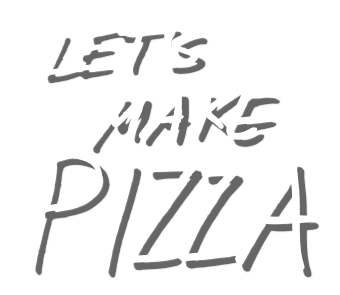
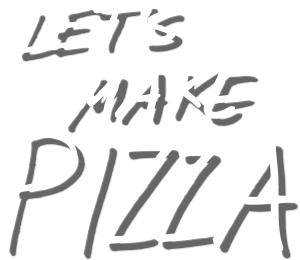
set pizza ui header size

Changed region(s): [[0.03, 0.0308, 1.0, 1.0], [0.51, 0.6769, 0.54, 0.7385], [0.54, 0.6462, 0.57, 0.6769]]

diff --git a/core/src/nz/co/canadia/poorpeoplepizzaparty/utils/Constants.java b/core/src/nz/co/canadia/poorpeoplepizzaparty/utils/Constants.java
@@ -37,15 +37,22 @@ public class Constants {
         BARBECUE
     }
 
+    // everything is blocked out in terms of this unit
     public static final int UNIT = 20;
 
+    // UI font size is 32px
     public static final float UI_FONT_RATIO = 32f / GAME_HEIGHT;
     public static final float UI_SHADOW_X = 2f/ GAME_HEIGHT;
     public static final float UI_SHADOW_Y = 2f/ GAME_HEIGHT;
     public static final Color UI_SHADOW_COLOR =
             new Color(0, 0, 0, 0.6f);
 
+    // UI button icons are 50px
     public static final float UI_ICON_RATIO = 50f / GAME_HEIGHT;
+
+    // Pizza UI header height is 300x260 px
+    public static final float UI_HEADER_WIDTH_RATIO = 300f / GAME_WIDTH;
+    public static final float UI_HEADER_HEIGHT_RATIO = 260f / GAME_HEIGHT;
 
     // Pizza base x, y
     public static final int BASE_X = UNIT;

diff --git a/core/src/nz/co/canadia/poorpeoplepizzaparty/ui/PizzaUi.java b/core/src/nz/co/canadia/poorpeoplepizzaparty/ui/PizzaUi.java
@@ -189,7 +189,8 @@ public class PizzaUi extends Table {
                 .pad(UiSize.getPadding(screenHeight));
         super.add(headerImage)
                 .space(UiSize.getPadding(screenHeight))
-                .prefSize(UiSize.getButtonWidthFull(screenWidth, screenHeight))
+                .prefSize(UiSize.getImageWidth(screenWidth),
+                        UiSize.getImageHeight(screenHeight))
                 .colspan(2).center();
         super.row();
         super.add(toppingSelectButton).space(UiSize.getPadding(screenHeight))

diff --git a/core/src/nz/co/canadia/poorpeoplepizzaparty/utils/UiSize.java b/core/src/nz/co/canadia/poorpeoplepizzaparty/utils/UiSize.java
@@ -36,4 +36,12 @@ public class UiSize {
     public static int getButtonHeight(int screenHeight) {
         return getPadding(screenHeight) * 4;
     }
+
+    public static float getImageHeight(int screenHeight) {
+        return Constants.UI_HEADER_HEIGHT_RATIO * screenHeight;
+    }
+
+    public static float getImageWidth(int screenWidth) {
+        return Constants.UI_HEADER_WIDTH_RATIO * screenWidth;
+    }
 }

diff --git a/core/src/nz/co/canadia/poorpeoplepizzaparty/utils/Assets.java b/core/src/nz/co/canadia/poorpeoplepizzaparty/utils/Assets.java
@@ -10,8 +10,7 @@ public class Assets extends AssetManager {
     private final TextureLoader.TextureParameter param;
     
     public Assets() {
-        param =
-                new TextureLoader.TextureParameter();
+        param = new TextureLoader.TextureParameter();
         param.minFilter = Texture.TextureFilter.Linear;
         param.magFilter = Texture.TextureFilter.Linear;
     }

diff --git a/todo.md b/todo.md
@@ -1,5 +1,10 @@
 # TODO
 
+  + ~~**BUG**: pizzaUi buttons get larger when pressed~~
+      - ~~is the header image too tall, forcing these to shrink? yes~~
+      - ~~set Pizza UI header size with UiSize.getImageWidth() and
+        UiSize.getImageHeight()~~
+
   + create platform-specific UiFont to provide BitmapFont for webgl, 
     FreetypeFont for desktop and android
     <https://github.com/libgdx/libgdx/wiki/Interfacing-with-platform-specific-code>
